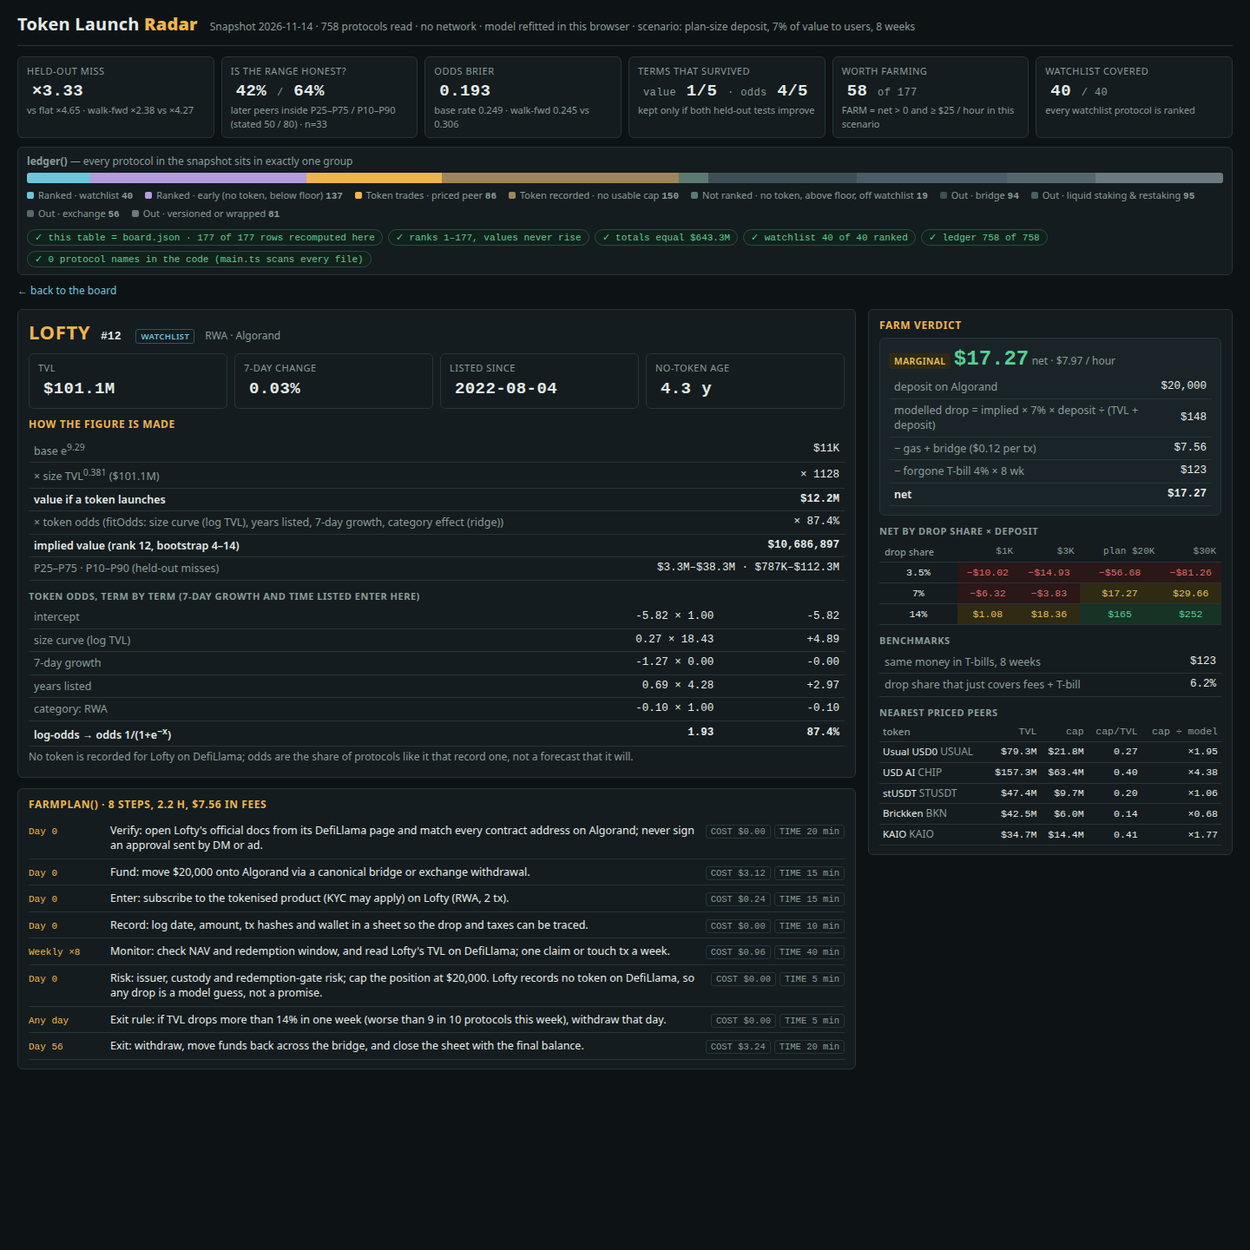
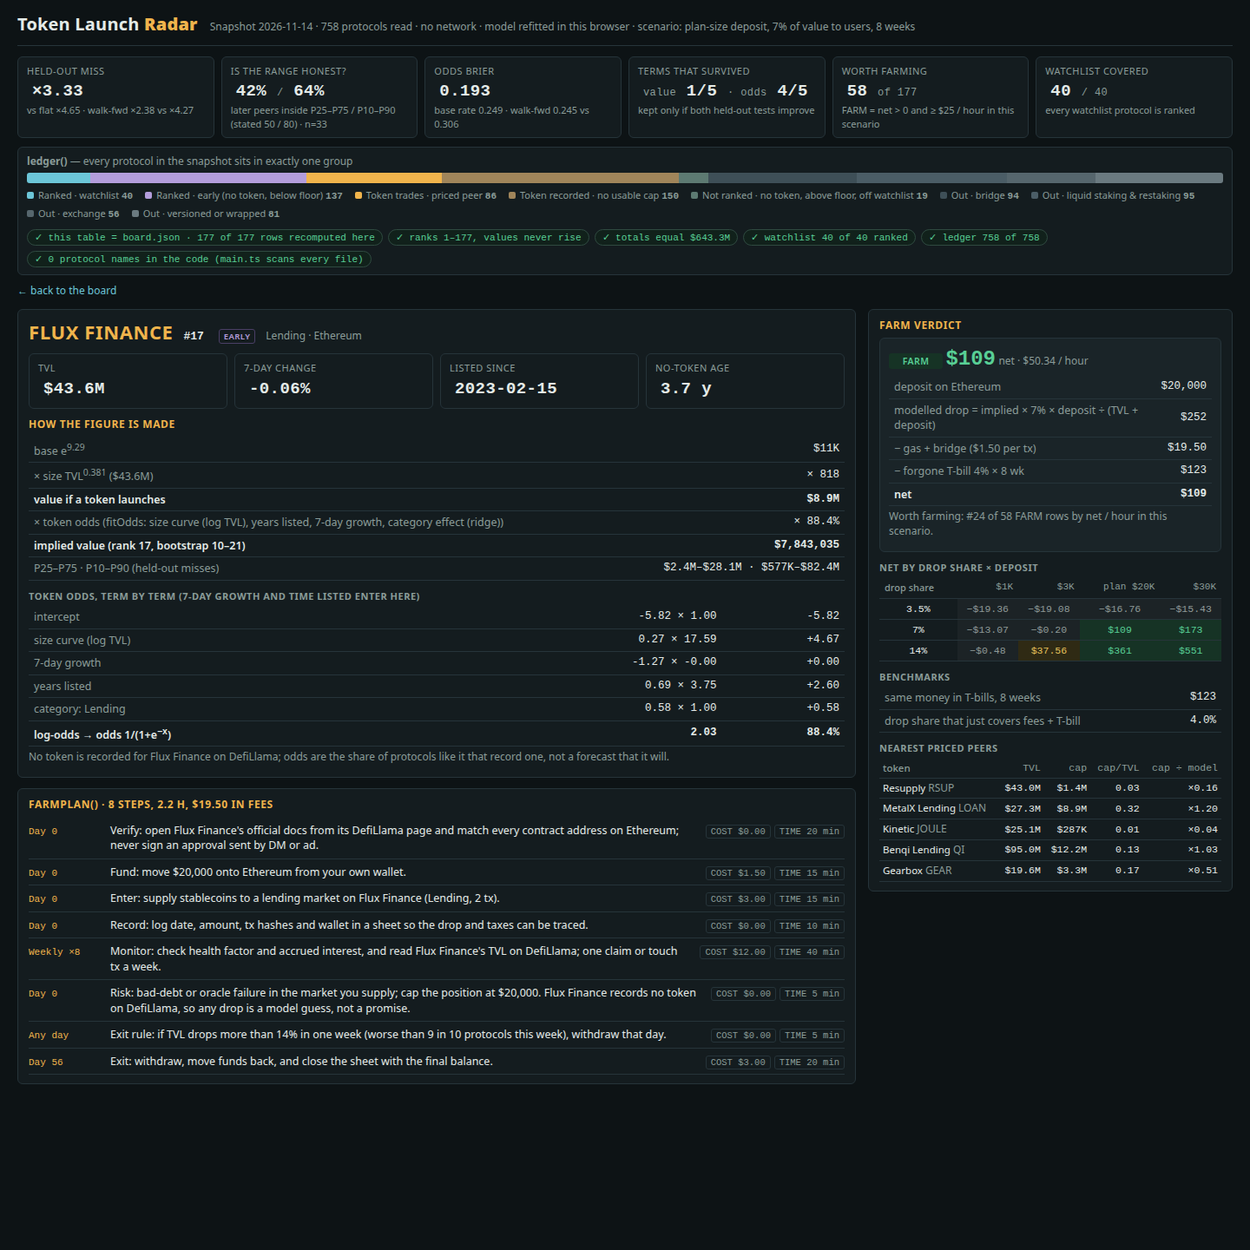
Worth-farming strip, muted SKIP, FARM detail + net/hour sorted filter view, main.ts self-checks

diff --git a/dashboard/app.js b/dashboard/app.js
@@ -4,7 +4,7 @@
   var D = window.RADAR_DATA, Rd = window.Radar, M = Rd.money;
   var snap = { as_of: D.as_of, source: D.source, floor_usd: D.floor_usd, watchlist: D.watchlist,
     protocols: D.protocols.map(function (a) { return { slug: a[0], name: a[1], category: a[2], chains: a[3], tvl_usd: a[4], change_7d: a[5], mcap_usd: a[6], listed_at: a[7], gecko_id: a[8], symbol: a[9] }; }) };
-  var R = Rd.run(snap);                       // the whole model, refitted here in the browser
+  var R = Rd.run(snap); // the whole model, refitted here in the browser
   var WL = {}; snap.watchlist.forEach(function (s) { WL[s] = 1; });
   var COLORS = { watch: '#6cc6d8', early: '#b39ddb', priced: '#f0b44c', nocap: '#a0855a', above: '#5d7a72', bridge: '#3e4f57', lst: '#4b5d66', cex: '#56666d', ver: '#6b7a80' };
   var DEF = { tab: 'board', verdict: 'ALL', tier: 'ALL', q: '', cat: '', chain: '', dep: 'plan', share: Math.round(D.scenario.dropShare * 1000) / 10, weeks: D.scenario.weeks, sort: 'rank', dir: 1, p: '' };
@@ -31,11 +31,12 @@
     location.hash.replace(/^#/, '').split('&').forEach(function (kv) {
       var i = kv.indexOf('='); if (i < 0) return;
       var k = decodeURIComponent(kv.slice(0, i)), v = decodeURIComponent(kv.slice(i + 1));
-      if (k in DEF) S[k] = typeof DEF[k] === 'number' ? +v : v;
+      if (k === 'dir') S.dir = v === 'desc' || +v < 0 ? -1 : 1;
+      else if (k in DEF) S[k] = typeof DEF[k] === 'number' ? +v : v;
     });
   }
   function writeHash() {
-    var parts = []; Object.keys(DEF).forEach(function (k) { if (S[k] !== DEF[k] && S[k] !== '') parts.push(k + '=' + encodeURIComponent(S[k])); });
+    var parts = []; Object.keys(DEF).forEach(function (k) { if (S[k] !== DEF[k] && S[k] !== '') parts.push(k + '=' + (k === 'dir' ? (S.dir < 0 ? 'desc' : 'asc') : encodeURIComponent(S[k]))); });
     history.replaceState(null, '', '#' + parts.join('&')); render();
   }
 
@@ -110,11 +111,11 @@
       return true;
     });
     var key = { rank: function (o) { return o.b.rank; }, tvl: function (o) { return o.b.f.p.tvl_usd; }, g7: function (o) { return o.b.f.p.change_7d || 0; }, age: function (o) { return o.b.f.yrs; },
-      odds: function (o) { return o.b.odds; }, ifl: function (o) { return o.b.ifLaunch; }, implied: function (o) { return o.b.implied; }, net: function (o) { return o.pl.net; }, ph: function (o) { return o.pl.perHour; }, name: function (o) { return o.b.name.toLowerCase(); } }[S.sort] || function (o) { return o.b.rank; };
+      odds: function (o) { return o.b.odds; }, ifl: function (o) { return o.b.ifLaunch; }, implied: function (o) { return o.b.implied; }, net: function (o) { return o.pl.net; }, nph: function (o) { return o.pl.perHour; }, name: function (o) { return o.b.name.toLowerCase(); } }[S.sort] || function (o) { return o.b.rank; };
     rows.sort(function (a, c) { var x = key(a), y = key(c); return (x < y ? -1 : x > y ? 1 : a.b.rank - c.b.rank) * S.dir; });
     return rows;
   }
-  var SORTNAME = { rank: 'rank', tvl: 'TVL', g7: '7-day change', age: 'no-token age', odds: 'token odds', ifl: 'value if it launches', implied: 'implied value', net: 'net of fees', ph: 'net / hour', name: 'name' };
+  var SORTNAME = { rank: 'rank', tvl: 'TVL', g7: '7-day change', age: 'no-token age', odds: 'token odds', ifl: 'value if it launches', implied: 'implied value', net: 'net of fees', nph: 'net / hour', name: 'name' };
 
   function controls() {
     function seg(key, opts) { return '<span class="seg">' + opts.map(function (o) { return '<button data-k="' + key + '" data-v="' + o[0] + '" class="' + (String(S[key]) === String(o[0]) ? 'on' : '') + '">' + o[1] + '</button>'; }).join('') + '</span>'; }
@@ -129,13 +130,23 @@
       '<label class="sl">horizon <input type="range" min="2" max="26" step="1" data-k="weeks" value="' + S.weeks + '"><b>' + S.weeks + ' wk</b></label>' +
       '<button class="b" data-act="reset">Reset</button><button class="b" data-act="csv">CSV export</button></div>' : '');
   }
+  // ---- worthFarming(): top 5 FARM rows by net / hour, recomputed for the live scenario ----
+  function worthStrip() {
+    var W = Rd.worthFarming(R, S.dep === 'plan' ? null : +S.dep, S.share / 100, S.weeks, 5), L = W.lead, lp = L.pl, lt = L.b.f.p.tvl_usd;
+    var cards = W.top.map(function (o, i) {
+      return '<button class="wf" data-pp="' + esc(o.b.slug) + '"><span class="wi">' + (i + 1) + '</span><b>' + esc(o.b.name) + '</b><span class="sub">rank #' + o.b.rank + '</span><span class="pos mono">' + M(o.pl.net) + ' net</span><span class="mono">' + M(o.pl.perHour) + ' / h</span></button>';
+    }).join('') || '<span class="sub">No row clears $25 / hour in this scenario — raise the drop share or deposit.</span>';
+    return '<div class="worth"><div class="wh"><h2>Worth farming in this scenario</h2><span class="sub">top 5 FARM by net / hour · ' + W.counts.FARM + ' FARM · ' + W.counts.MARGINAL + ' marginal · ' + W.counts.SKIP + ' skip</span></div><div class="wl">' + cards + '</div>' +
+      '<p class="why">Why the biggest pools say SKIP: a ' + M(lp.deposit) + ' deposit in ' + esc(L.b.name) + ' (#1, TVL ' + short(lt) + ') is ' + pct(lp.deposit / (lt + lp.deposit), 4) + ' of the pool, so its ' + short(L.b.implied) + ' implied value × ' + S.share + '% drop share pays ' + M(lp.drop) +
+      ' — less than ' + M(lp.costs) + ' fees + ' + M(lp.forgone) + ' forgone T-bill yield. Small pools give a deposit a bigger slice; the board stays ranked by implied value.</p></div>';
+  }
   function boardTable() {
     var rows = filtered(), cap = '';
     if (S.verdict !== 'ALL' || S.tier !== 'ALL' || S.q || S.cat || S.chain || S.sort !== 'rank')
       cap = '<div class="cap">Filtered to ' + [S.verdict !== 'ALL' ? 'verdict ' + S.verdict : '', S.tier === 'WATCH' ? 'watchlist' : S.tier === 'EARLY' ? 'early' : '', S.cat, S.chain, S.q ? '“' + esc(S.q) + '”' : ''].filter(Boolean).join(' · ') +
-        ' — ' + rows.length + ' of ' + R.board.length + ' · sorted by ' + SORTNAME[S.sort] + (S.dir < 0 ? ' ↓' : ' ↑') + '</div>';
+        ' — ' + rows.length + ' of ' + R.board.length + ' · sorted by ' + SORTNAME[S.sort] + (S.dir < 0 ? ', high → low ↓' : ', low → high ↑') + '</div>';
     function th(k, t, cls) { return '<th class="s ' + (cls || '') + (S.sort === k ? ' on' : '') + '" data-sort="' + k + '">' + t + (S.sort === k ? (S.dir < 0 ? ' ↓' : ' ↑') : '') + '</th>'; }
-    var h = '<tr>' + th('rank', '#') + th('name', 'protocol') + th('tvl', 'TVL', 'num') + th('g7', '7D', 'num') + th('age', 'no-token age', 'num') + th('odds', 'odds') + th('ifl', 'if it launches', 'num') + th('implied', 'implied value · P25–P75', 'num') + th('net', 'verdict · net', '') + th('ph', 'net / h', 'num') + '</tr>';
+    var h = '<tr>' + th('rank', '#') + th('name', 'protocol') + th('tvl', 'TVL', 'num') + th('g7', '7D', 'num') + th('age', 'no-token age', 'num') + th('odds', 'odds') + th('ifl', 'if it launches', 'num') + th('implied', 'implied value · P25–P75', 'num') + th('net', 'verdict · net', '') + th('nph', 'net / h', 'num') + '</tr>';
     var hiAll = Math.log(R.board[0].hi75), loAll = Math.log(Math.max(1, R.board[R.board.length - 1].lo25));
     function pos(v) { return 100 * (Math.log(Math.max(1, v)) - loAll) / (hiAll - loAll); }
     var body = rows.slice(0, 30).map(function (o) {
@@ -145,9 +156,9 @@
         '<td class="num">' + short(p.tvl_usd) + '</td><td class="num ' + (g == null ? '' : g >= 0 ? 'pos' : 'neg') + '">' + (g == null ? '—' : (g >= 0 ? '+' : '') + g.toFixed(1) + '%') + '</td><td class="num">' + age(b.f) + '</td>' +
         '<td class="mono"><span class="odds"><i style="width:' + pct(b.odds) + '"></i></span>' + pct(b.odds) + '</td><td class="num">' + short(b.ifLaunch) + '</td>' +
         '<td class="num">' + short(b.implied) + ' <span class="sub">' + short(b.lo25) + '–' + short(b.hi75) + '</span><span class="strip"><i style="left:' + pos(b.lo25) + '%;width:' + (pos(b.hi75) - pos(b.lo25)) + '%"></i><b style="left:' + pos(b.implied) + '%"></b></span></td>' +
-        '<td><span class="v ' + pl.verdict + '">' + pl.verdict + '</span><span class="vn">' + M(pl.net) + '</span></td><td class="num ' + (pl.perHour >= 25 ? 'pos' : pl.perHour < 0 ? 'neg' : '') + '">' + M(pl.perHour) + '</td></tr>';
+        '<td><span class="v ' + pl.verdict + '">' + pl.verdict + '</span><span class="vn">' + M(pl.net) + '</span></td><td class="num ' + (pl.perHour >= 25 ? 'pos' : pl.perHour < 0 ? 'mu' : '') + '">' + M(pl.perHour) + '</td></tr>';
     }).join('');
-    return cap + '<table class="board">' + h + body + '</table>' + (rows.length > 30 ? '<div class="more">+ ' + (rows.length - 30) + ' more rows — narrow with the filters or export CSV</div>' : '');
+    return (cap ? '' : worthStrip()) + cap + '<table class="board">' + h + body + '</table>' + (rows.length > 30 ? '<div class="more">+ ' + (rows.length - 30) + ' more rows — narrow with the filters or export CSV</div>' : '');
   }
   function pricedTable() {
     var rows = R.peers.map(function (r) { return { r: r, m: Math.exp(R.value.model.predict(r)) }; }).sort(function (a, b) { return b.r.p.mcap_usd - a.r.p.mcap_usd; });
@@ -184,13 +195,14 @@
       '<tr><td>P25–P75 · P10–P90 (held-out misses)</td><td class="num">' + short(b.lo25) + '–' + short(b.hi75) + ' · ' + short(b.lo10) + '–' + short(b.hi90) + '</td></tr></table>';
     var peers = Rd.nearestPeers(R, b, 5).map(function (x) { return '<tr><td>' + esc(x.name) + ' <span class="sub">' + esc(x.symbol || '') + '</span></td><td class="num">' + short(x.tvl) + '</td><td class="num">' + short(x.cap) + '</td><td class="num">' + x.ratio.toFixed(2) + '</td><td class="num">×' + x.vsModel.toFixed(2) + '</td></tr>'; }).join('');
     var steps = pl.steps.map(function (s) { return '<li><span class="w">' + esc(s.when) + '</span><span>' + esc(s.text) + '</span><span class="c"><span>COST ' + M(s.cost) + '</span><span>TIME ' + s.min + ' min</span></span></li>'; }).join('');
-    var tb = pl.deposit * Rd.TBILL * S.weeks / 52;
+    var tb = pl.deposit * Rd.TBILL * S.weeks / 52, W = Rd.worthFarming(R, deposit(b), S.share / 100, S.weeks, 999), wi = W.top.map(function (o) { return o.b.slug; }).indexOf(b.slug);
+    var wline = '<p class="note">' + (wi >= 0 ? 'Worth farming: #' + (wi + 1) + ' of ' + W.counts.FARM + ' FARM rows by net / hour in this scenario.' : 'Not in the ' + W.counts.FARM + ' FARM rows of this scenario.') + '</p>';
     return '<a class="back" href="#">← back to the board</a><div class="det"><div><div class="panel"><div class="dh"><h2>' + esc(p.name) + '</h2><span class="rk">#' + b.rank + '</span><span class="badge ' + (WL[b.slug] ? 'w">watchlist' : 'e">early') + '</span><span class="sub">' + esc(p.category) + ' · ' + p.chains.map(esc).join(', ') + '</span></div>' +
       '<div class="dk">' + [['TVL', short(p.tvl_usd)], ['7-day change', p.change_7d == null ? '—' : p.change_7d.toFixed(2) + '%'], ['listed since', p.listed_at || 'n/a'], ['no-token age', age(b.f)]].map(function (k) { return '<div class="kpi"><div class="k">' + k[0] + '</div><div class="v">' + k[1] + '</div></div>'; }).join('') + '</div>' +
       '<h2>How the figure is made</h2>' + math + '<h3>token odds, term by term (7-day growth and time listed enter here)</h3><table class="math">' + ot + '</table><p class="note">No token is recorded for ' + esc(p.name) + ' on DefiLlama; odds are the share of protocols like it that record one, not a forecast that it will.</p></div>' +
       '<div class="panel" style="margin-top:12px"><h2>farmPlan() · ' + pl.steps.length + ' steps, ' + pl.hours.toFixed(1) + ' h, ' + M(pl.costs) + ' in fees</h2><ul class="steps">' + steps + '</ul></div></div>' +
-      '<div><div class="panel"><h2>Farm verdict</h2><div class="vbox"><span class="v ' + pl.verdict + '">' + pl.verdict + '</span> <span class="big ' + (pl.net > 0 ? 'pos' : 'neg') + '">' + M(pl.net) + '</span> <span class="sub">net · ' + M(pl.perHour) + ' / hour</span>' +
-      '<table class="math" style="margin-top:6px"><tr><td>deposit on ' + esc(pl.chain) + '</td><td class="num">' + M(pl.deposit) + '</td></tr><tr><td>modelled drop = implied × ' + S.share + '% × deposit ÷ (TVL + deposit)</td><td class="num">' + M(pl.drop) + '</td></tr><tr><td>− gas + bridge (' + M(pl.gas) + ' per tx)</td><td class="num">' + M(pl.costs) + '</td></tr><tr><td>− forgone T-bill ' + pct(Rd.TBILL) + ' × ' + S.weeks + ' wk</td><td class="num">' + M(pl.forgone) + '</td></tr><tr class="t"><td>net</td><td class="num">' + M(pl.net) + '</td></tr></table></div>' +
+      '<div><div class="panel"><h2>Farm verdict</h2><div class="vbox"><span class="v ' + pl.verdict + '">' + pl.verdict + '</span> <span class="big ' + (pl.net > 0 ? 'pos' : 'mu') + '">' + M(pl.net) + '</span> <span class="sub">net · ' + M(pl.perHour) + ' / hour</span>' +
+      '<table class="math" style="margin-top:6px"><tr><td>deposit on ' + esc(pl.chain) + '</td><td class="num">' + M(pl.deposit) + '</td></tr><tr><td>modelled drop = implied × ' + S.share + '% × deposit ÷ (TVL + deposit)</td><td class="num">' + M(pl.drop) + '</td></tr><tr><td>− gas + bridge (' + M(pl.gas) + ' per tx)</td><td class="num">' + M(pl.costs) + '</td></tr><tr><td>− forgone T-bill ' + pct(Rd.TBILL) + ' × ' + S.weeks + ' wk</td><td class="num">' + M(pl.forgone) + '</td></tr><tr class="t"><td>net</td><td class="num">' + M(pl.net) + '</td></tr></table>' + wline + '</div>' +
       '<h3>net by drop share × deposit</h3><table class="sg">' + grid + '</table>' +
       '<h3>benchmarks</h3><table class="math"><tr><td>same money in T-bills, ' + S.weeks + ' weeks</td><td class="num">' + M(tb) + '</td></tr><tr><td>drop share that just covers fees + T-bill</td><td class="num">' + pct(pl.breakeven, 1) + '</td></tr></table>' +
       '<h3>nearest priced peers</h3><table class="ev"><tr><th>token</th><th class="num">TVL</th><th class="num">cap</th><th class="num">cap/TVL</th><th class="num">cap ÷ model</th></tr>' + peers + '</table></div></div></div>';
@@ -210,7 +222,8 @@
     var a = document.createElement('a'); a.href = URL.createObjectURL(new Blob([lines.join('\n')], { type: 'text/csv' })); a.download = 'token-radar-' + D.as_of + '.csv'; a.click();
   }
   document.addEventListener('click', function (e) {
-    var t = e.target.closest('[data-sort],[data-k],[data-act],tr[data-p]'); if (!t) return;
+    var t = e.target.closest('[data-sort],[data-k],[data-act],[data-pp],tr[data-p]'); if (!t) return;
+    if (t.dataset.pp) { S.p = t.dataset.pp; writeHash(); window.scrollTo(0, 0); return; }
     if (t.dataset.sort) { if (S.sort === t.dataset.sort) S.dir = -S.dir; else { S.sort = t.dataset.sort; S.dir = t.dataset.sort === 'rank' || t.dataset.sort === 'name' ? 1 : -1; } writeHash(); }
     else if (t.tagName === 'BUTTON' && t.dataset.k) { S[t.dataset.k] = t.dataset.v; writeHash(); }
     else if (t.dataset.act === 'reset') { location.hash = ''; }

diff --git a/dashboard/app.css b/dashboard/app.css
@@ -1,4 +1,4 @@
-:root{--bg:#0d1315;--s1:#141c1f;--s2:#1a2428;--ln:#26343a;--tx:#e4ebe8;--mu:#8b9c99;--dim:#5f6f6c;--ac:#f0b44c;--farm:#58cf95;--marg:#e6c15b;--skip:#df6b6b;--wl:#6cc6d8;--er:#b39ddb;--mono:ui-monospace,"SF Mono",Menlo,Consolas,monospace;--sans:system-ui,-apple-system,"Segoe UI",Roboto,sans-serif}
+:root{--bg:#0d1315;--s1:#141c1f;--s2:#1a2428;--ln:#26343a;--tx:#e4ebe8;--mu:#8b9c99;--dim:#5f6f6c;--ac:#f0b44c;--farm:#58cf95;--marg:#e6c15b;--skip:#df6b6b;--grey:#8f9a98;--wl:#6cc6d8;--er:#b39ddb;--mono:ui-monospace,"SF Mono",Menlo,Consolas,monospace;--sans:system-ui,-apple-system,"Segoe UI",Roboto,sans-serif}
 *{box-sizing:border-box}
 html,body{margin:0;background:var(--bg);color:var(--tx);font:13px/1.4 var(--sans)}
 a{color:var(--wl);text-decoration:none}a:hover{text-decoration:underline}
@@ -36,7 +36,7 @@ th.s{cursor:pointer}th.s:hover{color:var(--tx)}th.on{color:var(--ac)}
 .kept{color:var(--farm)}.drop{color:var(--dim)}
 .controls{display:flex;flex-wrap:wrap;gap:8px;align-items:center;margin-bottom:8px}
 .seg{display:inline-flex;border:1px solid var(--ln);border-radius:5px;overflow:hidden}
-.seg button{background:var(--s2);color:var(--mu);border:0;border-right:1px solid var(--ln);padding:5px 9px;font:12px var(--sans);cursor:pointer}
+.seg button{background:var(--s2);color:var(--mu);border:0;border-right:1px solid var(--ln);padding:5px 9px;font:12px var(--sans);cursor:pointer;min-width:0}
 .seg button:last-child{border-right:0}.seg button.on{background:#2a2414;color:var(--ac)}
 select,input[type=search],button.b{background:var(--s2);color:var(--tx);border:1px solid var(--ln);border-radius:5px;padding:5px 7px;font:12px var(--sans)}
 input[type=search]{width:150px}
@@ -55,7 +55,7 @@ label.sl input{width:84px;accent-color:var(--ac)}label.sl b{font:12px var(--mono
 .strip{display:block;position:relative;height:4px;background:var(--s2);border-radius:2px;margin-top:3px;width:110px;margin-left:auto}
 .strip i{position:absolute;top:0;height:4px;background:#6b5a32;border-radius:2px}.strip b{position:absolute;top:-2px;width:2px;height:8px;background:var(--ac)}
 .v{font:600 10.5px var(--sans);letter-spacing:.4px;padding:2px 6px;border-radius:3px;display:inline-block;min-width:62px;text-align:center}
-.v.FARM{background:#163325;color:var(--farm)}.v.MARGINAL{background:#2f2a14;color:var(--marg)}.v.SKIP{background:#2a1717;color:var(--skip)}
+.v.FARM{background:#163325;color:var(--farm)}.v.MARGINAL{background:#2f2a14;color:var(--marg)}.v.SKIP{background:#1f2629;color:var(--grey)}
 .vn{display:block;font:10.5px var(--mono);color:var(--mu);text-align:center}
 .pos{color:var(--farm)}.neg{color:var(--skip)}
 .more{color:var(--mu);font-size:12px;padding:8px 4px}
@@ -66,7 +66,7 @@ label.sl input{width:84px;accent-color:var(--ac)}label.sl b{font:12px var(--mono
 .vbox{border:1px solid var(--ln);border-radius:6px;padding:10px;background:var(--s2)}
 .vbox .big{font:600 24px var(--mono)}
 .sg td{text-align:center;font:11.5px var(--mono);padding:5px 3px}
-.sg td.FARM{background:#163325;color:var(--farm)}.sg td.MARGINAL{background:#2f2a14;color:var(--marg)}.sg td.SKIP{background:#2a1717;color:var(--skip)}
+.sg td.FARM{background:#163325;color:var(--farm)}.sg td.MARGINAL{background:#2f2a14;color:var(--marg)}.sg td.SKIP{background:#1c2326;color:var(--grey)}
 .steps{list-style:none;padding:0;margin:0}
 .steps li{padding:6px 0;border-bottom:1px solid var(--ln);font-size:12.5px;display:grid;grid-template-columns:86px 1fr auto;gap:8px;align-items:baseline}
 .steps .w{font:11px var(--mono);color:var(--ac)}
@@ -74,3 +74,10 @@ label.sl input{width:84px;accent-color:var(--ac)}label.sl b{font:12px var(--mono
 .back{font-size:12px;margin:10px 0 0;display:inline-block}
 svg text{fill:var(--mu);font:10px var(--mono)}
 .note{color:var(--dim);font-size:11px;margin-top:6px}
+.mu{color:var(--grey)}
+.worth{border:1px solid #2f4a40;background:#10201a;border-radius:6px;padding:8px 10px;margin:0 0 10px}
+.wh{display:flex;align-items:baseline;gap:10px;flex-wrap:wrap}.wh h2{color:var(--farm)!important;margin:0 0 6px}
+.wl{display:grid;grid-template-columns:repeat(5,minmax(0,1fr));gap:6px}
+.wf{display:grid;grid-template-columns:auto 1fr;gap:1px 6px;text-align:left;background:var(--s1);border:1px solid #2f4a40;border-radius:5px;padding:6px 8px;color:var(--tx);font:12px var(--sans);cursor:pointer;min-width:0}
+.wf b{overflow:hidden;text-overflow:ellipsis;white-space:nowrap}.wf .wi{grid-row:span 4;font:600 16px var(--mono);color:var(--farm)}
+.why{margin:7px 0 0!important;font-size:11.5px!important;color:var(--mu)}

diff --git a/main.ts b/main.ts
@@ -68,6 +68,20 @@ rows.forEach((r: any, i: number) => {
 ok(new Set(rows.map((r: any) => r.implied_value_usd)).size > 1, 'not all equal');
 ok(snap.watchlist.every((s: string) => seen.has(s)), 'watchlist 40/40');
 const counts = Radar.counts(R); ok(Object.values(counts).reduce((a: number, b: any) => a + b, 0) === snap.protocols.length, 'ledger sums');
+// worth-farming strip: the page calls Radar.worthFarming(); recompute it here from the rows board.json carries
+// (verdict rule, counts, top 5 by net / hour, and the #1-row "why SKIP" arithmetic) so the strip can't drift from the file.
+const WF = Radar.worthFarming(R, null, SCEN.dropShare, SCEN.weeks, 5);
+const plans = R.board.map((b: any) => Radar.farmPlan(b, null, SCEN.dropShare, SCEN.weeks, R.exitX));
+plans.forEach((p: any, i: number) => {
+  ok(p.verdict === (p.net <= 0 ? 'SKIP' : p.perHour >= 25 ? 'FARM' : 'MARGINAL') && rows[i].verdict === p.verdict, 'verdict rule ' + rows[i].slug);
+  ok(Math.abs(p.drop - p.costs - p.forgone - p.net) < 1e-6, 'net = drop − costs − forgone ' + rows[i].slug);
+});
+const vc: any = { FARM: 0, MARGINAL: 0, SKIP: 0 }; rows.forEach((r: any) => vc[r.verdict]++);
+ok(['FARM', 'MARGINAL', 'SKIP'].every(k => vc[k] === WF.counts[k]), 'worthFarming counts = board.json counts');
+const top5 = rows.map((r: any, i: number) => ({ slug: r.slug, rank: r.rank, ph: plans[i].perHour })).filter((o: any, i: number) => rows[i].verdict === 'FARM')
+  .sort((a: any, b: any) => b.ph - a.ph || a.rank - b.rank).slice(0, 5).map((o: any) => o.slug);
+ok(top5.join() === WF.top.map((o: any) => o.b.slug).join(), 'worthFarming top 5 = board.json FARM rows by net/hour');
+ok(WF.lead.b.slug === rows[0].slug, 'strip explains board #1');
 let dashBytes = 0, names = 0; const kinds = new Set<string>();
 for (const f of readdirSync(join(HERE, 'dashboard'))) {
   const t = readFileSync(join(HERE, 'dashboard', f), 'utf8'); dashBytes += Buffer.byteLength(t); kinds.add(f.split('.').pop()!);
@@ -101,4 +115,4 @@ writeFileSync(join(OUT, 'data.js'), 'window.RADAR_DATA = ' + JSON.stringify(data
 // ---- dossier last ----
 if (shots.length) writeFileSync(join(OUT, 'dossier.json'), buildDossier(OUT, { text_max_bytes: 65536, screenshots: { max: 4, max_bytes: 524288 }, dashboard: { max_files: 400, max_bytes: 4194304 } }));
 const v = rows.reduce((a: any, r: any) => (a[r.verdict] = (a[r.verdict] || 0) + 1, a), {});
-console.log(`ok: ${rows.length} rows · ledger ${JSON.stringify(counts)} · verdicts ${JSON.stringify(v)} · dashboard ${dashBytes} B · value kept [${R.value.kept}] · odds kept [${R.odds.kept}]`);
+console.log(`ok: ${rows.length} rows · ledger ${JSON.stringify(counts)} · verdicts ${JSON.stringify(v)} · worth farming top 5 [${top5.join(', ')}] · dashboard ${dashBytes} B · value kept [${R.value.kept}] · odds kept [${R.odds.kept}]`);

diff --git a/dashboard/radar.js b/dashboard/radar.js
@@ -254,11 +254,9 @@
 
   // ---------- is the printed range honest? walk-forward coverage ----------
   function heldOut(peers, kept) {
-    // each later peer gets a band built only from the misses of peers listed before it
     var wm = walkMisses(peers, kept), in50 = 0, in80 = 0;
     wm.forEach(function (o) {
-      // the band printed on the board is built from leave-one-out misses, so test it the same way:
-      // leave-one-out misses inside the earlier peers only, then see if the later peer lands inside
+      // the board band uses leave-one-out misses, so rebuild it the same way from earlier peers only
       var res = looMisses(o.tr, kept);
       // a miss is pred - actual; actual inside band  <=>  res inside [q_lo, q_hi]
       if (o.res >= quantile(res, 0.25) && o.res <= quantile(res, 0.75)) in50++;
@@ -385,7 +383,16 @@
     });
   }
 
-  var api = { run: run, ledger: ledger, fitValue: fitValue, fitOdds: fitOdds, heldOut: heldOut, farmPlan: farmPlan, stepText: stepText,
+  // worthFarming(): the n best FARM rows by net / hour for one scenario, plus verdict counts.
+  // Same function feeds the page strip and main.ts's self-check.
+  function worthFarming(R, deposit, dropShare, weeks, n) {
+    var all = R.board.map(function (b) { return { b: b, pl: farmPlan(b, deposit, dropShare, weeks, R.exitX) }; }), c = { FARM: 0, MARGINAL: 0, SKIP: 0 };
+    all.forEach(function (o) { c[o.pl.verdict]++; });
+    var top = all.filter(function (o) { return o.pl.verdict === 'FARM'; }).sort(function (x, y) { return y.pl.perHour - x.pl.perHour || x.b.rank - y.b.rank; }).slice(0, n || 5);
+    return { top: top, counts: c, lead: all[0] };
+  }
+
+  var api = { run: run, worthFarming: worthFarming, ledger: ledger, fitValue: fitValue, fitOdds: fitOdds, heldOut: heldOut, farmPlan: farmPlan, stepText: stepText,
     defaultDeposit: defaultDeposit, nearestPeers: nearestPeers, counts: counts, cheapestChain: cheapestChain, money: money,
     mulberry32: mulberry32, quantile: quantile, median: median, GROUPS: GROUPS, TERM_LABEL: TERM_LABEL, GAS: GAS, BRIDGE_FEE: BRIDGE_FEE, TBILL: TBILL };
   if (typeof module !== 'undefined' && module.exports) module.exports = api; else root.Radar = api;
